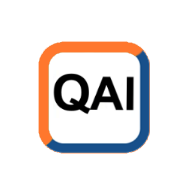
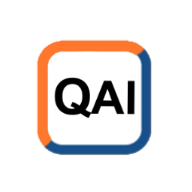
updates

Changed region(s): [[0.1875, 0.1875, 0.8125, 0.8125]]

diff --git a/index.html b/index.html
@@ -10,7 +10,7 @@
   <body>       
 	<div style="width:100%"><img src="images/hartalega-logo2.png" class="center"></img></div>
 	<div style="margin-top:100px;">&nbsp</div>
-	<div style="width:100%"><img src="icon/QAI_icon1.png" class="center"></img></div>
+	<div style="width:100%"><img src="images/logo.png" class="center"></img></div>
 	<div style="width:100%;text-align:center; margin-top: 100px;">
 		<button onclick="window.open('https://hsb-qai.hartalega.com.my', '_self', 'menubar=no,location=no')">HSB</button>		
 	</div>
